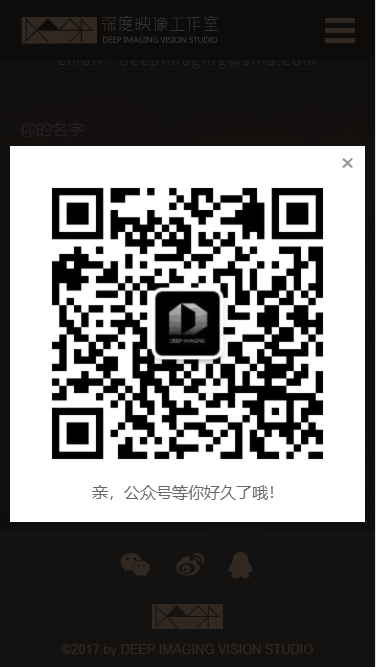
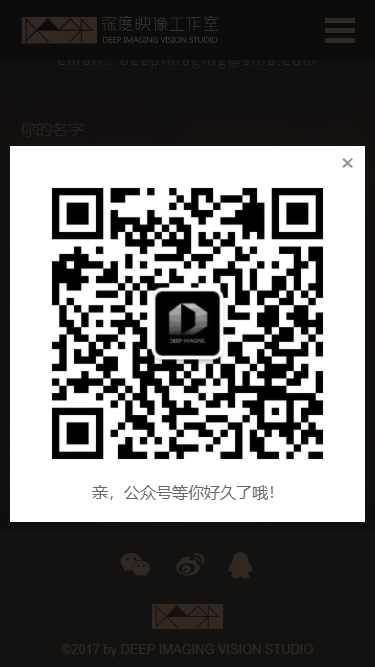
Updated README.md

diff --git a/README.md b/README.md
@@ -2,11 +2,11 @@
 # 深度映像工作室官网首页
 链接：[https://zamhown.github.io/divs-homepage](https://zamhown.github.io/divs-homepage)  
 
-本项目是我在2017年的本科毕业设计的一部分，当时是给学院的媒体工作室做了个官网，还包括一个 ASP.NET MVC 实现的作品管理系统和交流社区。  
+这个项目是我在2017年的本科毕业设计的一部分，当时是给学院里的媒体工作室做了个官网，还包括一个 ASP.NET MVC 实现的作品管理系统和交流社区。  
 
-> 这个媒体工作室的主要业务是拍视频、视频后期处理和平面设计，以实践教学为宗旨（并以揽私活维持生计），所以官网的首页部分需要做得炫酷一点。想当年为了答辩租了两个月服务器，一月120，还是有点小贵的。毕业以后由于没人续费，这个官网和整个作品社区就凉了……这次我把首页部分单拎了出来，用webpack优化了一遍传到了GitHub Pages。虽然是静态的，但终于有一个永久免费的服务器了。  
+> 深度映像工作室是我们学校的一个学生组织，主要业务是拍视频、视频后期处理和平面设计，以实践教学为宗旨（并以揽私活维持生计），所以官网的首页部分需要做得炫酷一点。想当年为了答辩租了两个月服务器，一月120，还是有点小贵的。毕业以后由于没人续费，这个官网和整个作品社区就凉了……这次我把首页部分单拎了出来，用webpack优化了一遍传到了GitHub Pages。虽然是静态的，但终于有一个永久免费的服务器了。  
 
-这次趁热把以前的东西总结一下，不然又会像这次一样一上手什么都忘了。先列举下该页面主要用到的技术：  
+这次趁热把以前的东西总结了一下，不然又会像这次一样一上手什么都忘了。先列举下该页面主要用到的技术：  
 
 - 响应式设计与浏览器兼容
 - 视频播放的控制（懒加载、loading进度条等）
@@ -117,7 +117,7 @@ PC端屏幕横宽，信息量大；移动端屏幕竖长，信息量小。如果
 ![图片加载中](https://raw.githubusercontent.com/zamhown/divs-homepage/master/readme/gif/8.gif)  
 
 第二个是之前提过的Flex Box的应用。“作品”部分的展示框架使用了Flex Box，由于是两年前的实现，现在看来使用Grid Layout要更合适。4:2:1:1的布局可以很方便适配手机端。  
-![图片加载中](https://raw.githubusercontent.com/zamhown/divs-homepage/master/readme/zp-1.png)
+![图片加载中](https://raw.githubusercontent.com/zamhown/divs-homepage/master/readme/zp-1.png)  
 *PC和平板布局*  
 
 ![图片加载中](https://raw.githubusercontent.com/zamhown/divs-homepage/master/readme/zp-2.png)  
@@ -136,7 +136,7 @@ PC端屏幕横宽，信息量大；移动端屏幕竖长，信息量小。如果
 
 如果是在微信里打开这个网页，由于可以长按图片进行二维码识别，模态框的引导语就变成了这样：  
 
-![图片加载中](https://raw.githubusercontent.com/zamhown/divs-homepage/master/readme/qrc-3.jpg)  
+![图片加载中](https://raw.githubusercontent.com/zamhown/divs-homepage/master/readme/qrc-3.png)  
 
 第二处是QQ。在PC端网页上，点击QQ图标后会自动调起QQ以供进行临时会话，超链接是这样的：  
 ```
@@ -150,7 +150,7 @@ mqqwpa://im/chat?chat_type=wpa&uin=<你的客服QQ号>&version=1&src_type=web&we
 
 而在微信里则会把这个链接屏蔽，对应的处理是弹出一条提示：
 
-![图片加载中](https://raw.githubusercontent.com/zamhown/divs-homepage/master/readme/qq.jpg)  
+![图片加载中](https://raw.githubusercontent.com/zamhown/divs-homepage/master/readme/qq.png)  
 
 ## 三、浏览器兼容
 浏览器兼容也算是一种广义的响应式设计。不同浏览器内核对h5、css3和js特性的支持各有差别，开发阶段需要不断地测试。目前这个页面在Chrome、Firefox、Safari、Edge、IE11和微信内置的魔改版X5内核上都没什么问题（如果在微信打开，需要点击“访问原网页”）。  
@@ -173,7 +173,7 @@ mqqwpa://im/chat?chat_type=wpa&uin=<你的客服QQ号>&version=1&src_type=web&we
 
 可能很多人发现用移动版Chrome进入B站以后，地址栏永远是粉色的。这个`<meta>`的作用就是如此：自定义Chrome地址栏的颜色。这里我设成了黑色，有助于获得更有整体性的视觉体验。  
 
-![图片加载中](https://raw.githubusercontent.com/zamhown/divs-homepage/master/readme/chrome.jpg)  
+![图片加载中](https://raw.githubusercontent.com/zamhown/divs-homepage/master/readme/chrome.png)  
 
 
 ### 3.  Safari的网页图标定义
